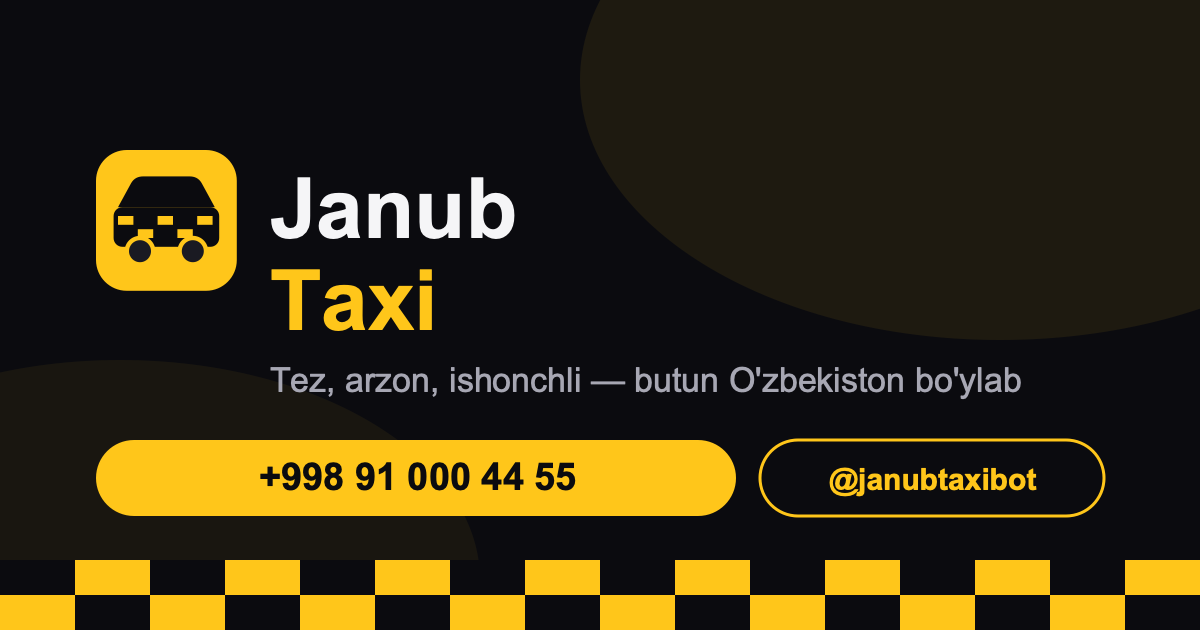
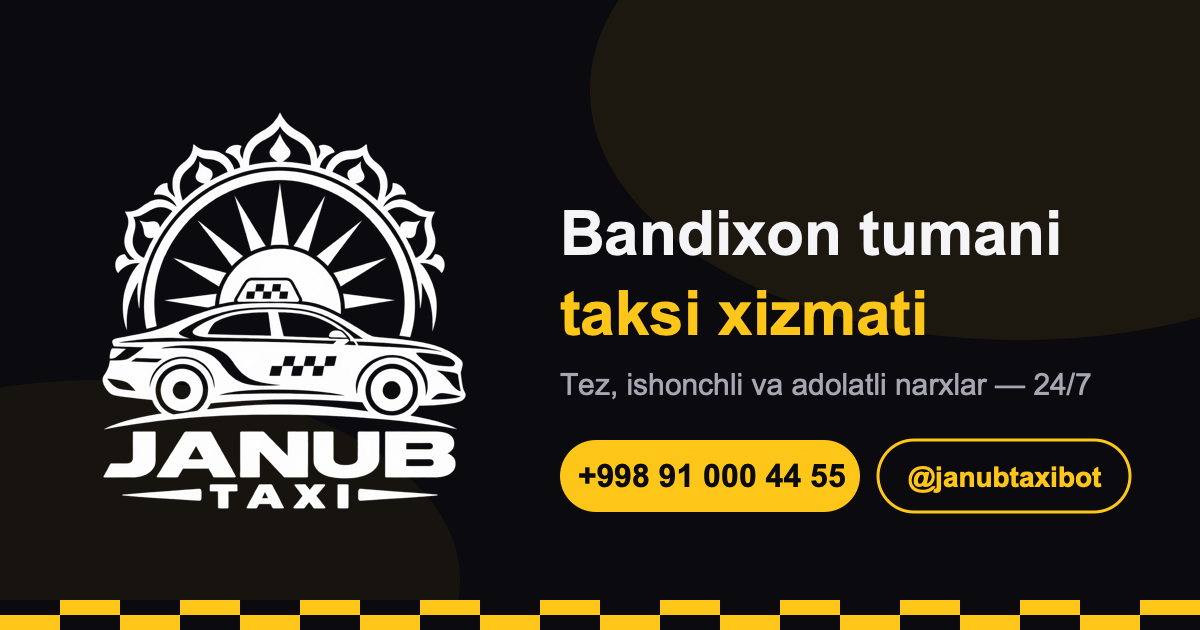
Real brend: Janub Taxi logotipi, Bandixon tumani kontenti va real tariflar

diff --git a/src/styles/global.css b/src/styles/global.css
@@ -153,7 +153,7 @@ img, svg { max-width: 100%; }
   letter-spacing: -0.01em;
 }
 
-.brand svg { width: 2rem; height: 2rem; }
+.brand img { width: 2.25rem; height: 2.25rem; object-fit: contain; }
 
 .main-nav { display: flex; align-items: center; gap: clamp(1rem, 2.5vw, 2rem); }
 .main-nav a {
@@ -195,7 +195,11 @@ img, svg { max-width: 100%; }
 .hero-actions { display: flex; flex-wrap: wrap; gap: 1rem; }
 
 .hero-art { display: flex; justify-content: center; }
-.hero-art svg { width: min(100%, 30rem); height: auto; filter: drop-shadow(0 24px 48px rgba(255, 198, 26, 0.18)); }
+.hero-art img {
+  width: min(100%, 28rem);
+  height: auto;
+  filter: drop-shadow(0 24px 48px rgba(255, 198, 26, 0.22));
+}
 
 .checker-stripe {
   height: 0.85rem;
@@ -240,18 +244,6 @@ img, svg { max-width: 100%; }
 }
 .service-icon svg { width: 1.5rem; height: 1.5rem; }
 
-/* Routes */
-.route-row {
-  display: flex;
-  align-items: center;
-  justify-content: space-between;
-  gap: 1rem;
-}
-.route-name { font-weight: 700; }
-.route-meta { font-size: 0.85rem; color: var(--text-muted); }
-.route-price { font-weight: 800; color: var(--yellow); white-space: nowrap; }
-.price-note { font-size: 0.9rem; color: var(--text-muted); margin-top: 1.25rem; }
-
 /* Steps */
 .step-num {
   font-size: clamp(2.5rem, 2rem + 2.5vw, 3.5rem);
@@ -295,7 +287,53 @@ img, svg { max-width: 100%; }
 .faq-list details[open] summary::after { transform: rotate(45deg); }
 .faq-list details p { margin: 0.9rem 0 0; }
 
+/* Pricing */
+.pricing-grid {
+  display: grid;
+  gap: clamp(1rem, 2.5vw, 1.5rem);
+  grid-template-columns: 1fr;
+}
+@media (min-width: 900px) { .pricing-grid { grid-template-columns: 1.2fr 0.8fr; } }
+
+.tariff-list { margin: 0; }
+.tariff-row {
+  display: flex;
+  justify-content: space-between;
+  align-items: baseline;
+  gap: 1rem;
+  padding: 0.85rem 0;
+  border-bottom: 1px solid var(--glass-border);
+}
+.tariff-row:last-child { border-bottom: 0; }
+.tariff-row dt { color: var(--text-muted); }
+.tariff-row dd {
+  margin: 0;
+  font-weight: 800;
+  color: var(--yellow);
+  text-align: right;
+  white-space: nowrap;
+}
+@media (max-width: 480px) { .tariff-row { flex-direction: column; gap: 0.15rem; } .tariff-row dd { text-align: left; white-space: normal; } }
+
+.places-list {
+  list-style: none;
+  padding: 0;
+  margin: 0 0 1rem;
+  display: grid;
+  gap: 0.7rem;
+}
+.places-list li {
+  display: flex;
+  align-items: center;
+  gap: 0.65rem;
+  font-weight: 600;
+}
+.places-list svg { color: var(--yellow); flex-shrink: 0; }
+.price-note { font-size: 0.9rem; color: var(--text-muted); margin-top: 0.5rem; }
+
 /* App CTA */
+.app-cta-logo { margin-bottom: 1.25rem; }
+.app-cta-actions { justify-content: center; }
 .app-cta {
   position: relative;
   overflow: hidden;
